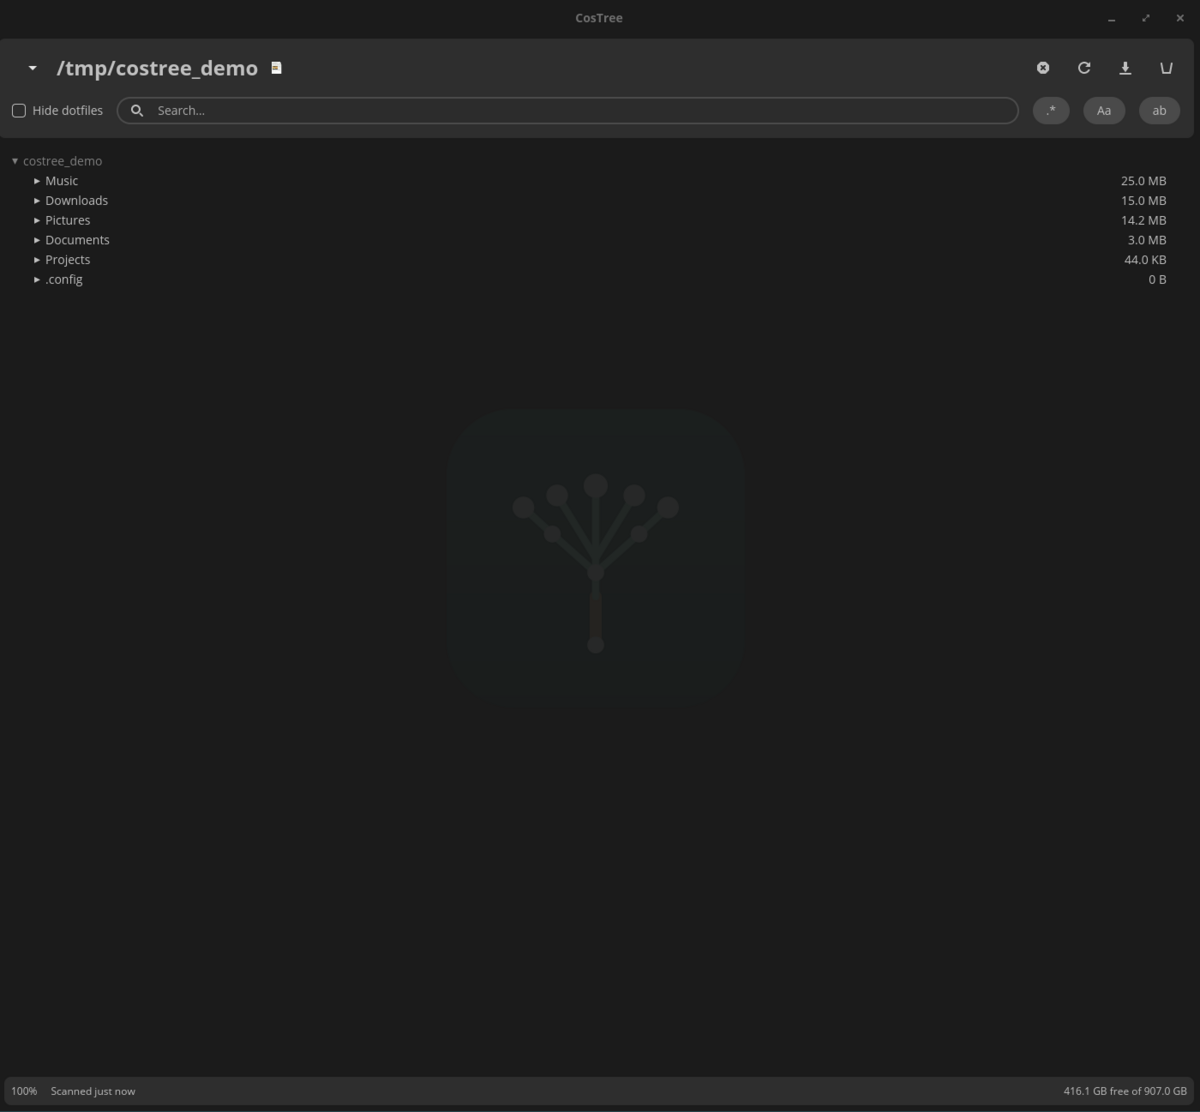
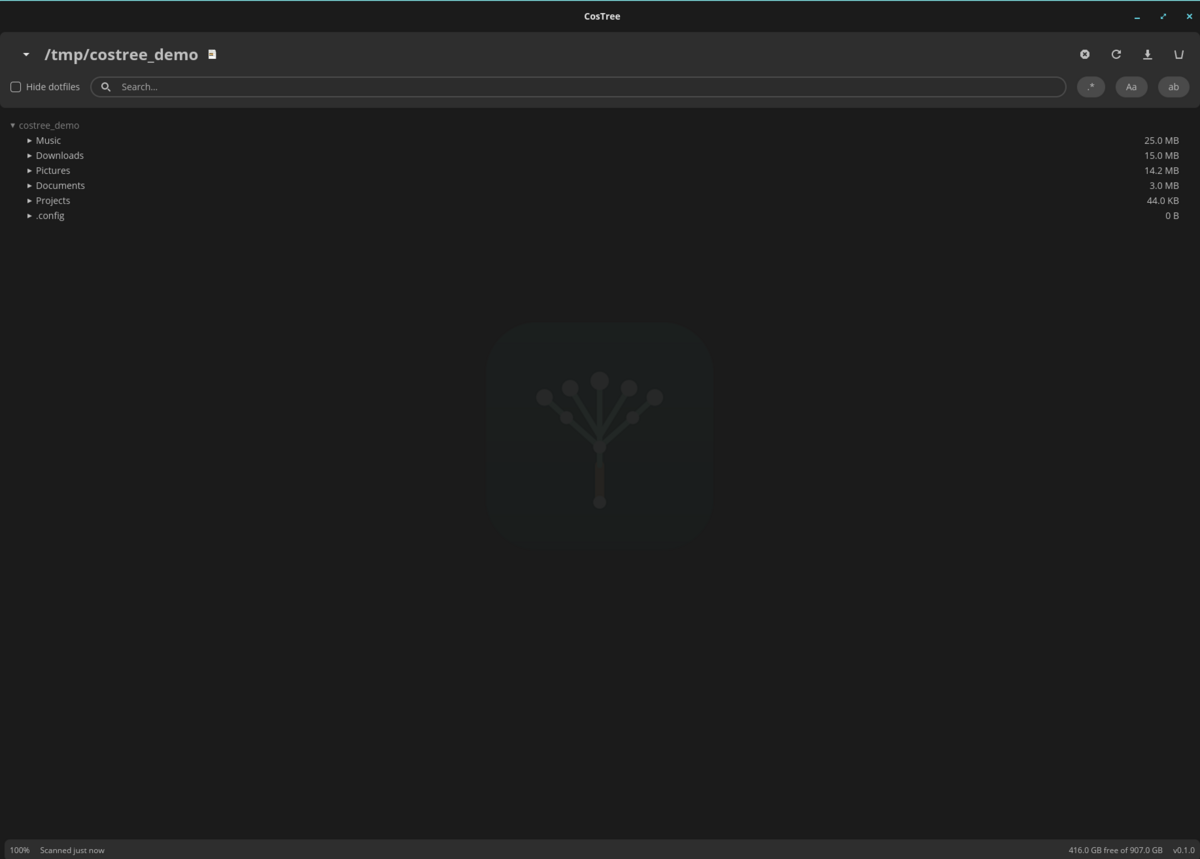
Show a version number, add --version, sync it on release (#12)
--version/-V prints costree <version> and exits before the GUI
starts. The footer now shows v<version> at the far right of the
status bar. The release workflow rewrites Cargo.toml's [package]
version to match the pushed tag before building, so a release binary
reports the actual released version rather than whatever was last
committed to Cargo.toml.

Also refreshes the README screenshot, which now shows the version.

diff --git a/src/app/view.rs b/src/app/view.rs
@@ -248,7 +248,7 @@ pub(super) fn footer(app: &AppModel) -> Option<Element<'_, Message>> {
         )
     };
 
-    let mut row = widget::row::with_capacity(4)
+    let mut row = widget::row::with_capacity(5)
         .push(widget::text::caption(format!("{percent}%")))
         .push(widget::text::caption(operation).width(Length::Fill))
         .align_y(Alignment::Center)
@@ -265,6 +265,8 @@ pub(super) fn footer(app: &AppModel) -> Option<Element<'_, Message>> {
     if let Some(err) = &app.last_error {
         row = row.push(widget::text::caption(format!("Error: {err}")));
     }
+
+    row = row.push(widget::text::caption(format!("v{}", crate::VERSION)));
 
     Some(
         widget::container(row)

diff --git a/src/main.rs b/src/main.rs
@@ -4,7 +4,17 @@ mod app;
 mod config;
 mod scanner;
 
+/// Set from the `version` field in `Cargo.toml` at compile time, which the
+/// release workflow rewrites to match the pushed tag before building — see
+/// `.github/workflows/release.yml`.
+pub(crate) const VERSION: &str = env!("CARGO_PKG_VERSION");
+
 fn main() -> cosmic::iced::Result {
+    if std::env::args().any(|arg| arg == "--version" || arg == "-V") {
+        println!("costree {VERSION}");
+        return Ok(());
+    }
+
     let settings = cosmic::app::Settings::default().size_limits(
         cosmic::iced::Limits::NONE
             .min_width(480.0)
